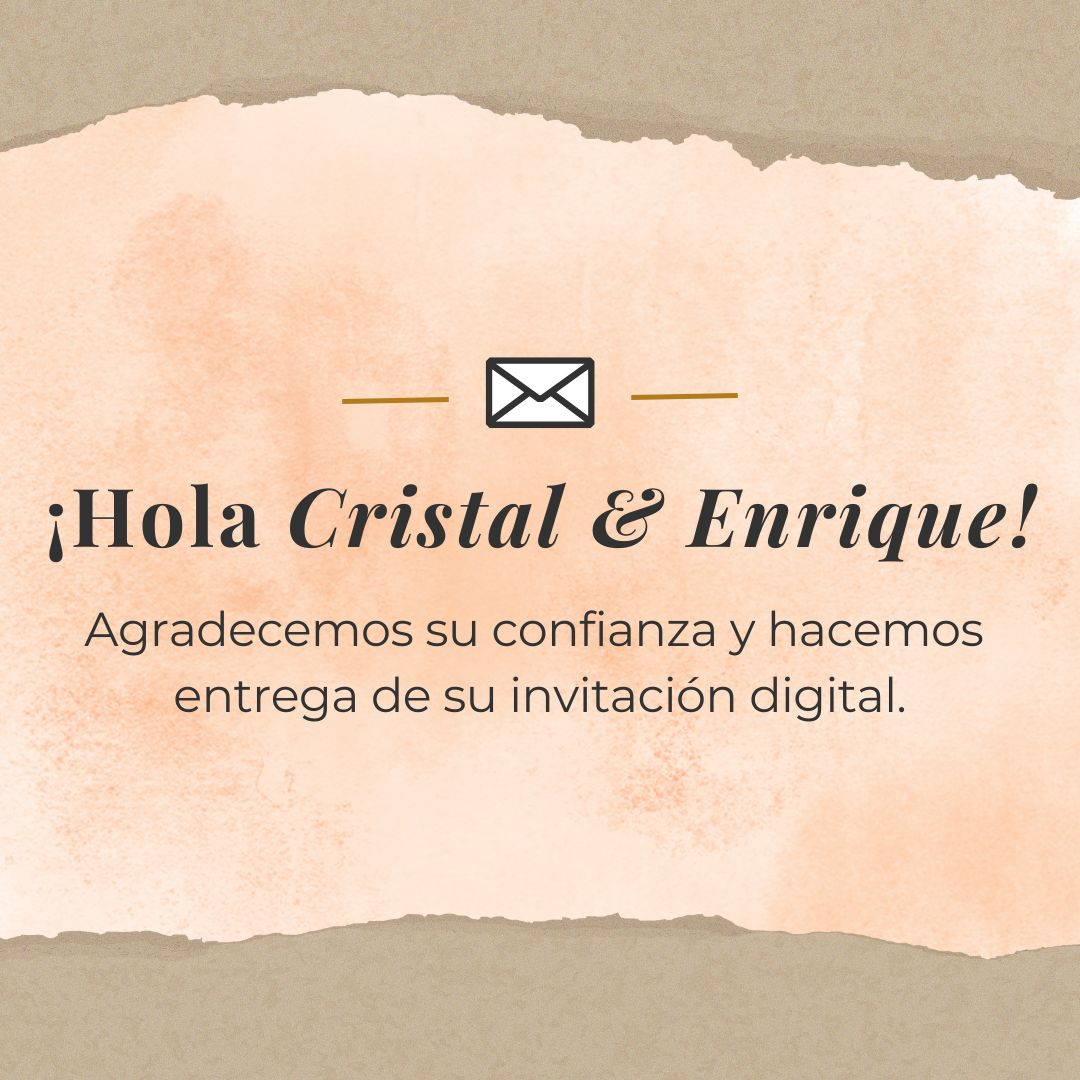
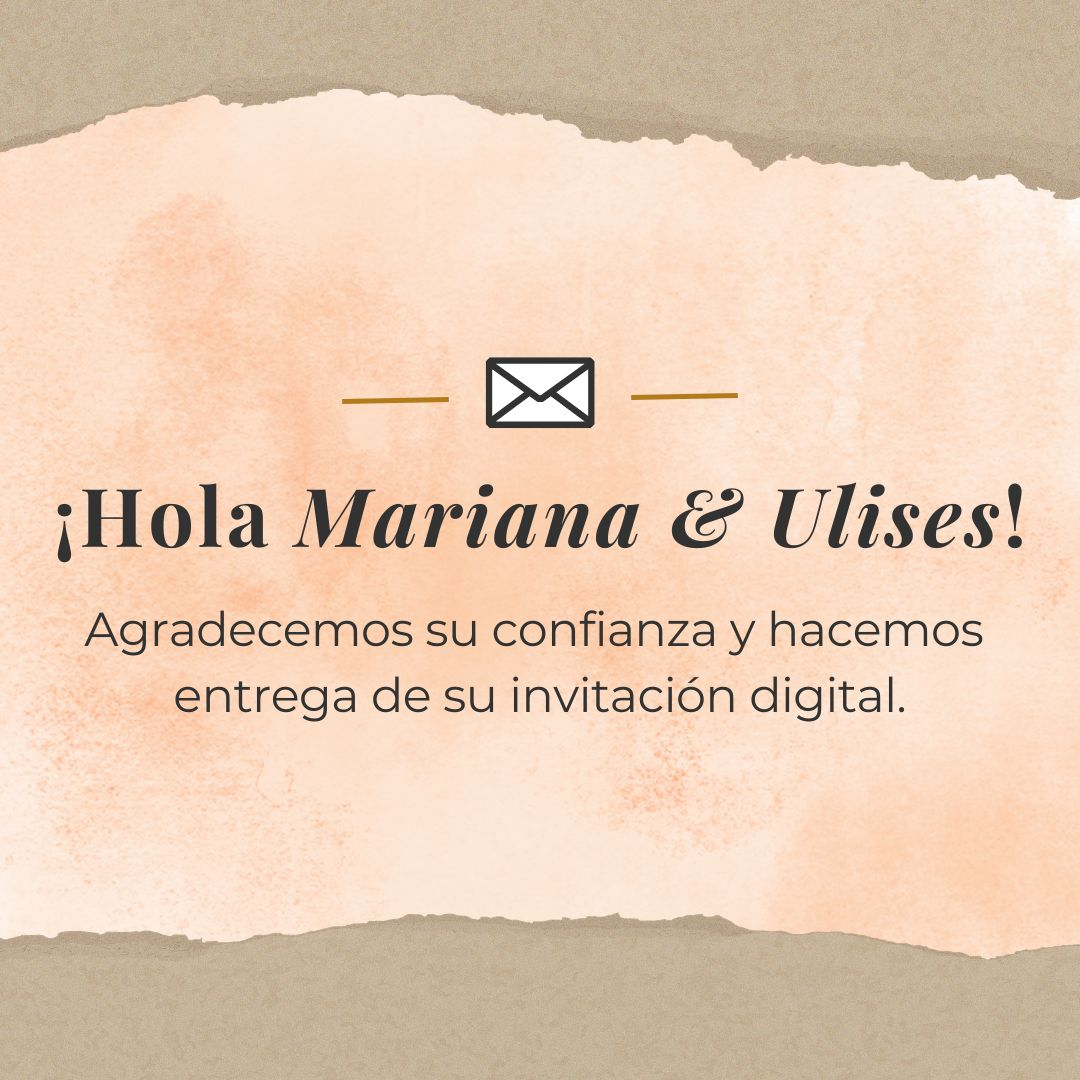
Add files via upload

Changed region(s): [[0.0306, 0.4278, 0.9778, 0.5194]]

diff --git a/inicio.html b/inicio.html
@@ -12,9 +12,9 @@
         <meta property="og:type" content="website"/>
         <meta property="og:title" content="Mariana & Ulises | ¡NUESTRA BODA!"/>
         <meta property="og:description" content="Te invitamos a ser parte de este momento tan especial."/>
-        <meta property="og:url" content="https://noscasamos.github.io/cristalyenrique/inicio.html"/>
+        <meta property="og:url" content="https://noscasamos.github.io/marianayulises/inicio.html"/>
         <meta property="article:modified_time" content="2023-02-19T17:24:46+00:00"/>
-        <meta property="og:image" content="https://noscasamos.github.io/cristalyenrique/img/portadaMensaje.jpg"/>
+        <meta property="og:image" content="https://noscasamos.github.io/marianayulises/img/portadaMensaje.jpg"/>
         <meta property="og:image:width" content="1080"/>
         <meta property="og:image:height" content="1400"/>
         <meta property="og:image:type" content="image/jpeg"/>
@@ -25,49 +25,49 @@
       "@graph": [
           {
               "@type": "Organization",
-              "@id": "https://noscasamos.github.io/cristalyenrique/inicio.html/#/schema/Organization/1",
+              "@id": "https://noscasamos.github.io/marianayulises/inicio.html/#/schema/Organization/1",
               "name": "Mariana & Ulises | ¡NUESTRA BODA!",
-              "url": "https://noscasamos.github.io/cristalyenrique/inicio.html",
+              "url": "https://noscasamos.github.io/marianayulises/inicio.html",
               "sameAs": [
               ],
               "logo": {
                   "@type": "ImageObject",
-                  "@id": "https://noscasamos.github.io/cristalyenrique/img/portadaMensaje.jpg",
-                  "url": "https://noscasamos.github.io/cristalyenrique/img/portadaMensaje.jpg",
-                  "contentUrl": "https://noscasamos.github.io/cristalyenrique/img/portadaMensaje.jpg",
+                  "@id": "https://noscasamos.github.io/marianayulises/img/portadaMensaje.jpg",
+                  "url": "https://noscasamos.github.io/marianayulises/img/portadaMensaje.jpg",
+                  "contentUrl": "https://noscasamos.github.io/marianayulises/img/portadaMensaje.jpg",
                   "width": 1080,
                   "height": 1400,
                   "caption": "Example Image"
               },
               "image": {
-                  "@id": "https://noscasamos.github.io/cristalyenrique/img/portadaMensaje.jpg"
+                  "@id": "https://noscasamos.github.io/marianayulises/img/portadaMensaje.jpg"
               }
           },
           {
               "@type": "WebSite",
-              "@id": "https://noscasamos.github.io/cristalyenrique/inicio.html/#/schema/WebSite/1",
-              "url": "https://noscasamos.github.io/cristalyenrique/inicio.html",
+              "@id": "https://noscasamos.github.io/marianayulises/inicio.html/#/schema/WebSite/1",
+              "url": "https://noscasamos.github.io/marianayulises/inicio.html",
               "name": "Mariana & Ulises | ¡NUESTRA BODA!",
               "publisher": {
-                  "@id": "https://noscasamos.github.io/cristalyenrique/inicio.html/#/schema/Organization/1"
+                  "@id": "https://noscasamos.github.io/marianayulises/inicio.html/#/schema/Organization/1"
               },
               "potentialAction": {
                   "@type": "SearchAction",
-                  "target": "https://noscasamos.github.io/cristalyenrique/inicio.html/?s={search_term_string}",
+                  "target": "https://noscasamos.github.io/marianayulises/inicio.html/?s={search_term_string}",
                   "query-input": "required name=search_term_string"
               }
           },
           {
               "@type": "WebPage",
-              "@id": "https://noscasamos.github.io/cristalyenrique/inicio.html",
-              "url": "https://noscasamos.github.io/cristalyenrique/inicio.html",
+              "@id": "https://noscasamos.github.io/marianayulises/inicio.html",
+              "url": "https://noscasamos.github.io/marianayulises/inicio.html",
               "inLanguage": "es",
               "name": "Example Page",
               "isPartOf": {
-                  "@id": "https://noscasamos.github.io/cristalyenrique/inicio.html/#/schema/WebSite/1"
+                  "@id": "https://noscasamos.github.io/marianayulises/inicio.html/#/schema/WebSite/1"
               },
               "about": {
-                  "@id": "https://noscasamos.github.io/cristalyenrique/inicio.html/#/schema/Organization/1"
+                  "@id": "https://noscasamos.github.io/marianayulises/inicio.html/#/schema/Organization/1"
               },
               "datePublished": "2015-09-14T08:13:22+00:00",
               "dateModified": "2019-03-28T12:46:37+00:00",
@@ -77,8 +77,8 @@
   }
         </script>
 
-         <link rel="alternate" type="application/rss+xml" title=" &raquo; Feed" href="https://noscasamos.github.io/cristalyenrique/inicio.html/feed/"/>
-        <link rel="alternate" type="application/rss+xml" title=" &raquo; Feed de los comentarios" href="https://noscasamos.github.io/cristalyenrique/inicio.html/comments/feed/"/>
+         <link rel="alternate" type="application/rss+xml" title=" &raquo; Feed" href="https://noscasamos.github.io/marianayulises/inicio.html/feed/"/>
+        <link rel="alternate" type="application/rss+xml" title=" &raquo; Feed de los comentarios" href="https://noscasamos.github.io/marianayulises/inicio.html/comments/feed/"/>
 
     <link rel="stylesheet" href="https://stackpath.bootstrapcdn.com/bootstrap/4.2.1/css/bootstrap.min.css" integrity="sha384-GJzZqFGwb1QTTN6wy59ffF1BuGJpLSa9DkKMp0DgiMDm4iYMj70gZWKYbI706tWS" crossorigin="anonymous">
     <link rel="stylesheet" href="css/demo003.css">